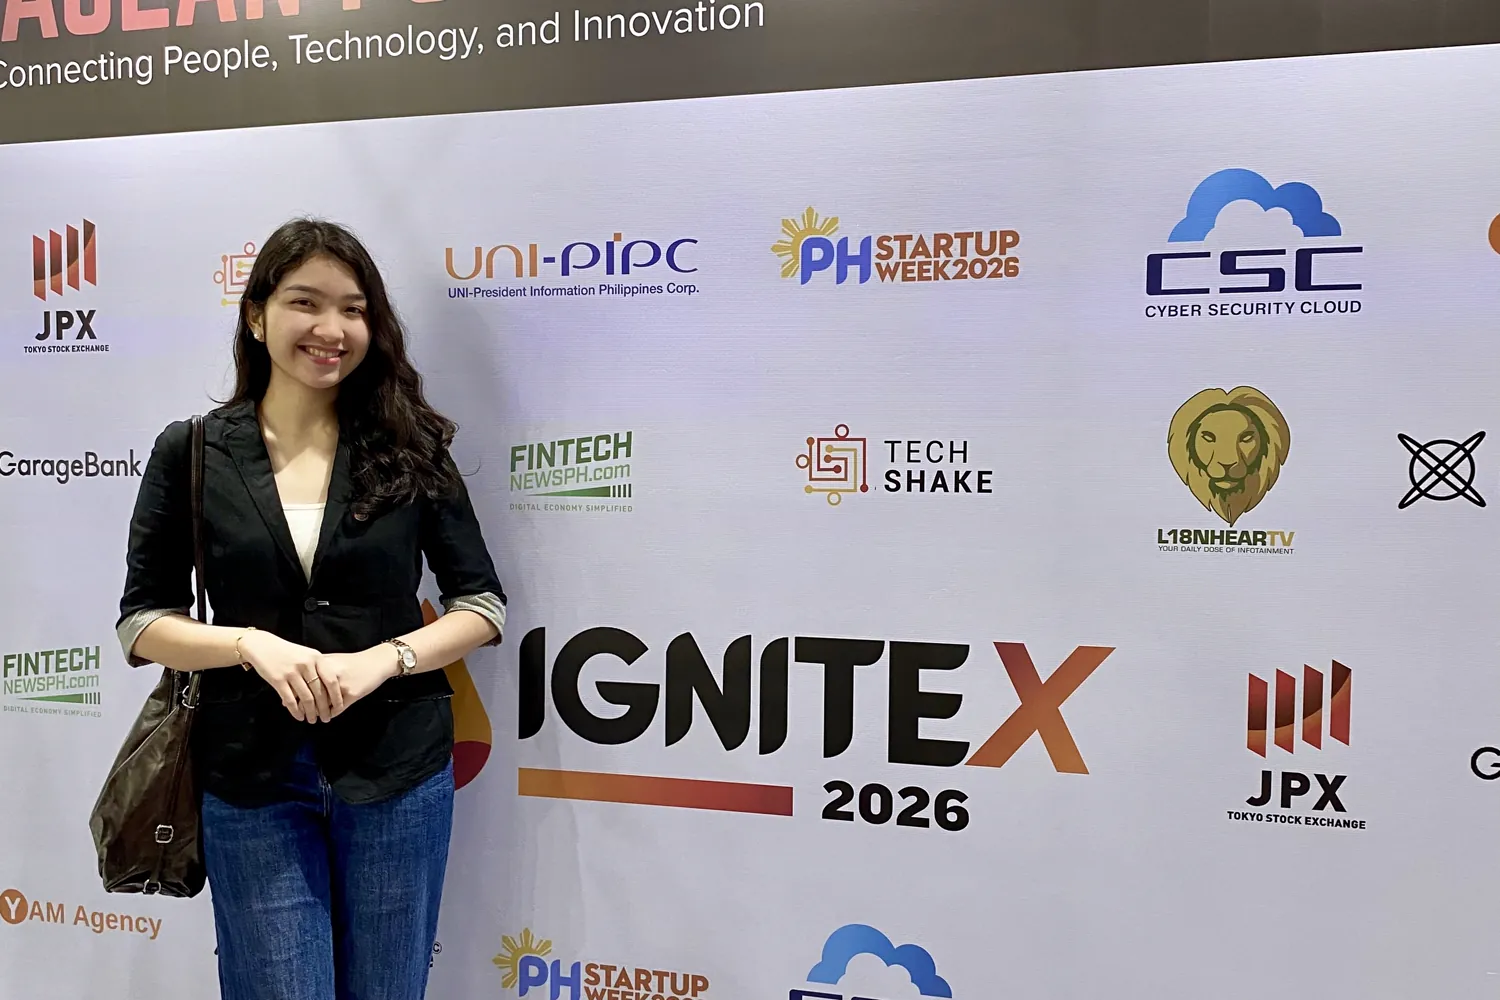
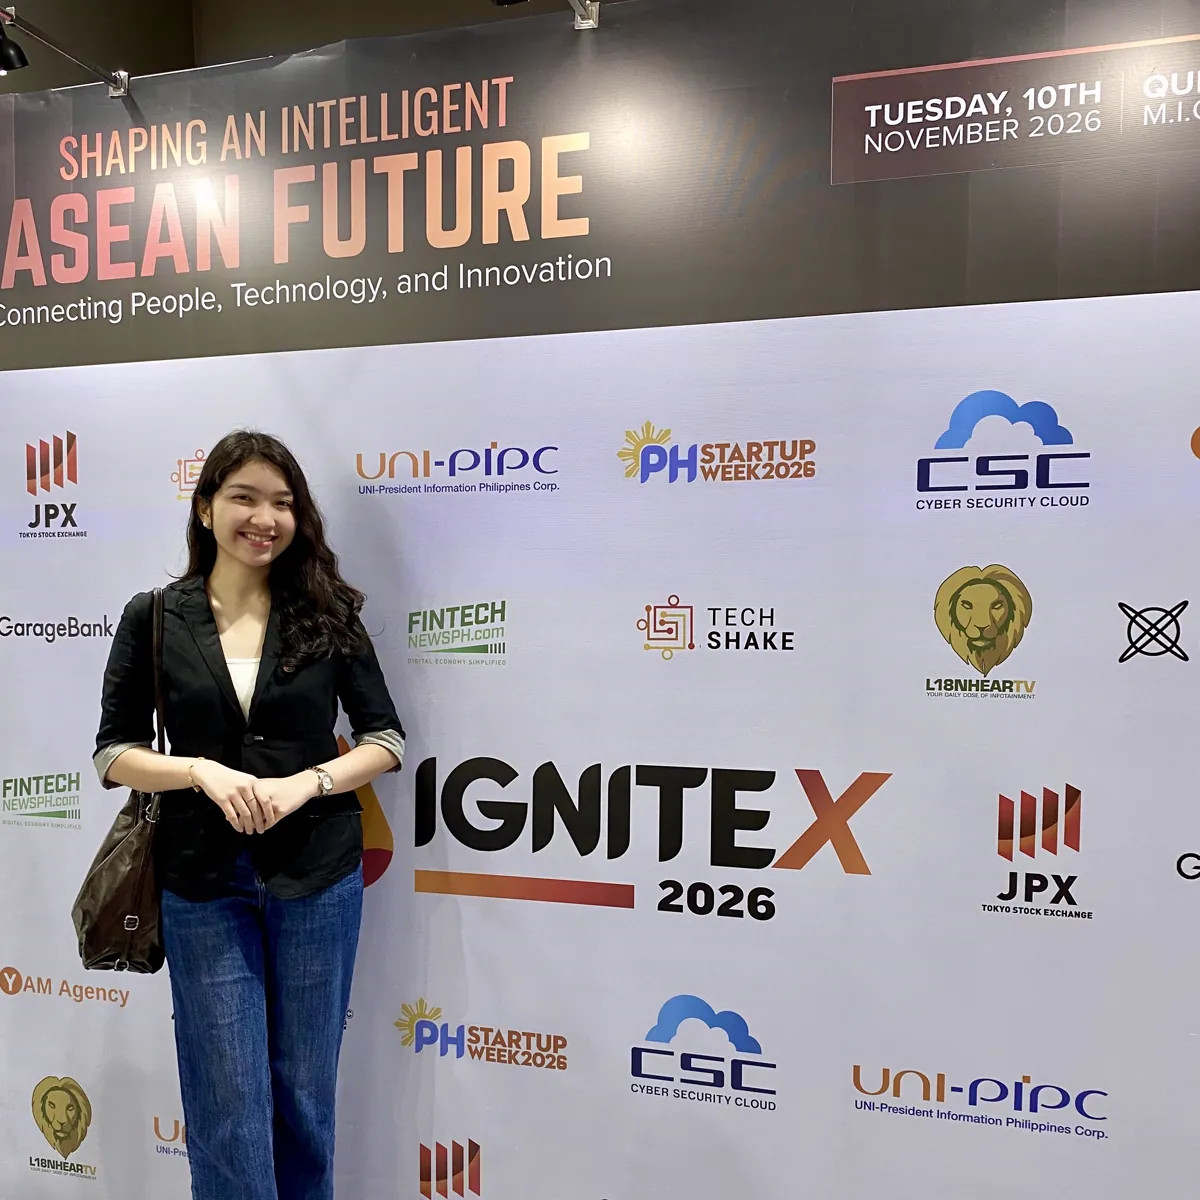
IGNITE X cover: square crop with headline and full figure; ASEAN mosaic: certificate and title sign swapped, title framed

diff --git a/events/asean-youth-summit-2026.html b/events/asean-youth-summit-2026.html
@@ -90,12 +90,12 @@
       <section class="read-block" id="sec-photos" aria-labelledby="h-photos">
         <div class="sec-head"><h2 class="sec-num" id="h-photos">photos</h2><span class="micro">tap to enlarge</span></div>
         <div class="gallery mosaic" data-gallery>
-          <button class="shot" type="button" data-full="../assets/img/events/asean-youth-summit-2026/01.webp" style="--at:3/1/5/3" aria-label="Open photo 1 of 6"><img src="../assets/img/events/asean-youth-summit-2026/01-thumb.webp" alt="Summit table sign beside the flags of ASEAN member states" loading="lazy"/></button>
+          <button class="shot" type="button" data-full="../assets/img/events/asean-youth-summit-2026/01.webp" style="--at:5/5/7/7" aria-label="Open photo 1 of 6"><img src="../assets/img/events/asean-youth-summit-2026/01-thumb.webp" style="object-position:19% 50%" alt="Summit table sign beside the flags of ASEAN member states" loading="lazy"/></button>
           <button class="shot" type="button" data-full="../assets/img/events/asean-youth-summit-2026/02.webp" style="--at:1/5/3/7" aria-label="Open photo 2 of 6"><img src="../assets/img/events/asean-youth-summit-2026/02-thumb.webp" alt="Atty. Marco Cicero F. Domingo of CHED NCR giving the opening message" loading="lazy"/></button>
           <button class="shot" type="button" data-full="../assets/img/events/asean-youth-summit-2026/03.webp" style="--at:5/1/7/5" aria-label="Open photo 3 of 6"><img src="../assets/img/events/asean-youth-summit-2026/03-thumb.webp" alt="Panel session Q&amp;A in front of the ASEAN flags and the Every Nation, Every Campus sign" loading="lazy"/></button>
           <button class="shot" type="button" data-full="../assets/img/events/asean-youth-summit-2026/04.webp?v=2" style="--at:3/3/5/7" aria-label="Open photo 4 of 6"><img src="../assets/img/events/asean-youth-summit-2026/04-thumb.webp?v=4" alt="Joana at the Campus Corner wall of school seals" loading="lazy"/></button>
           <button class="shot" type="button" data-full="../assets/img/events/asean-youth-summit-2026/05.webp" style="--at:1/1/3/5" aria-label="Open photo 5 of 6"><img src="../assets/img/events/asean-youth-summit-2026/05-thumb.webp" alt="Group photo of the student leaders who attended the summit" loading="lazy"/></button>
-          <button class="shot" type="button" data-full="../assets/img/events/asean-youth-summit-2026/06.webp" style="--at:5/5/7/7" aria-label="Open photo 6 of 6"><img src="../assets/img/events/asean-youth-summit-2026/06-thumb.webp" alt="Certificate of participation for Joana Daphne T. Sy from CHED NCR" loading="lazy"/></button>
+          <button class="shot" type="button" data-full="../assets/img/events/asean-youth-summit-2026/06.webp" style="--at:3/1/5/3" aria-label="Open photo 6 of 6"><img src="../assets/img/events/asean-youth-summit-2026/06-thumb.webp" alt="Certificate of participation for Joana Daphne T. Sy from CHED NCR" loading="lazy"/></button>
         </div>
         <p class="credit micro">official photos by mr. kio antonio magno (university of the philippines, diliman) · <a class="tl" href="https://lnkd.in/gnmgQru5" target="_blank" rel="noopener">event feature <span class="arr">↗</span></a> · <a class="tl" href="https://www.linkedin.com/posts/dvphnc_aseancampusconnectncr2026-chedncr-youthleadership-activity-7506687305001136129-OFs1/" target="_blank" rel="noopener">original post on linkedin <span class="arr">↗</span></a></p>
       </section>

diff --git a/events/ignite-x-2026.html b/events/ignite-x-2026.html
@@ -68,8 +68,8 @@
       <p class="read-sub enter" style="--d:130ms">TechShake's 10th flagship innovation conference, during Philippine Startup Week 2026</p>
       <p class="read-meta micro enter" style="--d:170ms">nov 10, 2026 · <span id="readTime">min read</span> · joana daphne sy <button class="event-cert meta-cert" type="button" data-photos="../assets/img/events/ignite-x-2026/cert.webp" data-alts="Certificate of attendance for Joana Daphne T. Sy, Philippine Startup Week 2026, November 9 to 12, Quezon City MICE Center" aria-label="View the certificate of attendance">‹ certificate ›</button></p>
 
-      <figure class="story-cover enter" style="--d:210ms">
-        <img src="../assets/img/events/ignite-x-2026/cover.webp" width="1500" height="1000" alt="Joana at the IGNITE X 2026 backdrop, Shaping an Intelligent ASEAN Future"/>
+      <figure class="story-cover enter" style="--d:210ms;aspect-ratio:1/1">
+        <img src="../assets/img/events/ignite-x-2026/cover.webp?v=2" width="1200" height="1200" alt="Joana at the IGNITE X 2026 backdrop, Shaping an Intelligent ASEAN Future"/>
       </figure>
 
       <!-- Text from Joana's LinkedIn post (28 Nov 2026) and her Philippine Startup Week certificate only. -->
